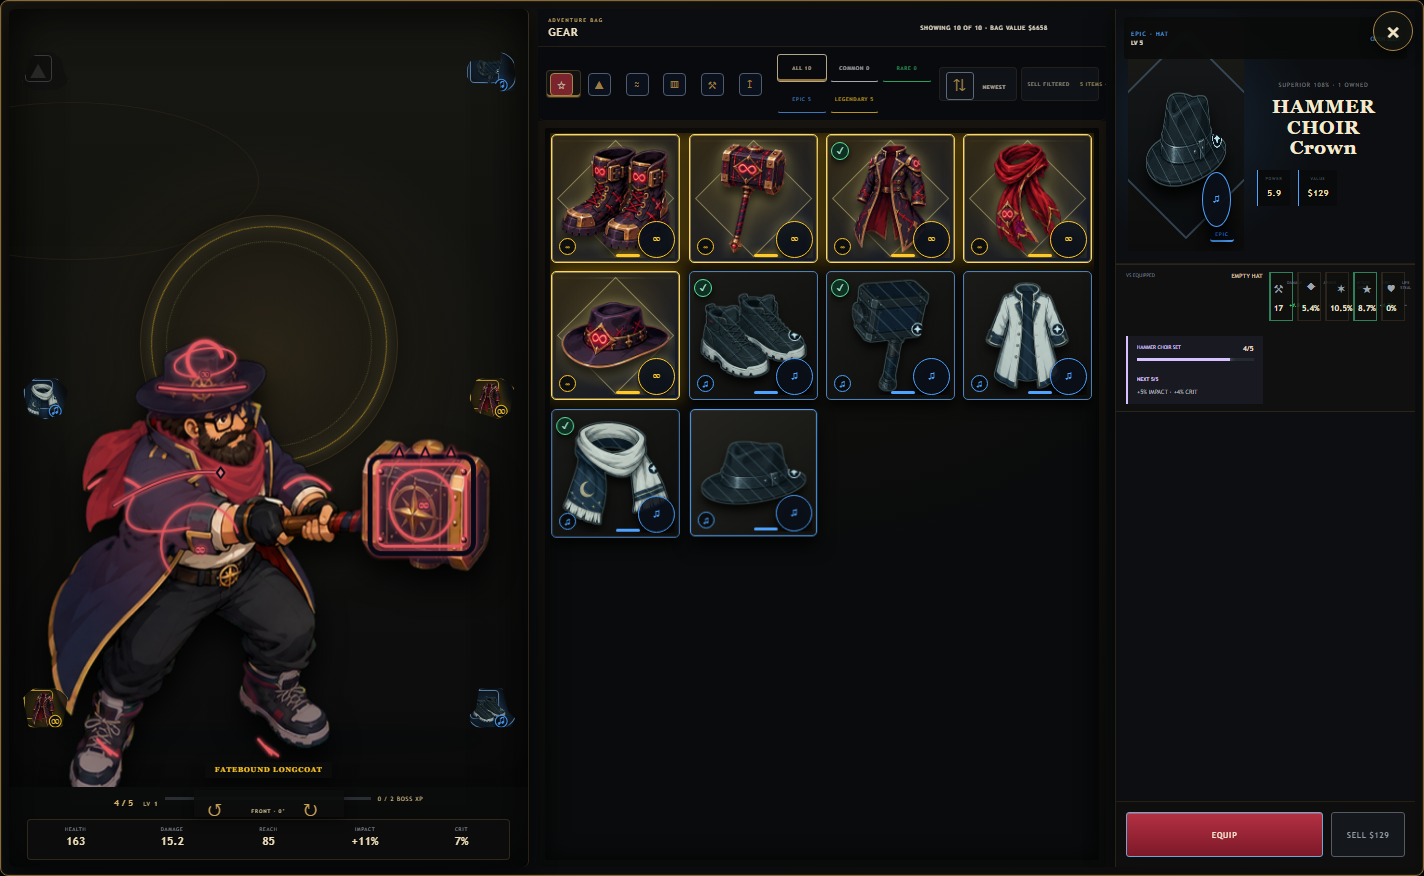
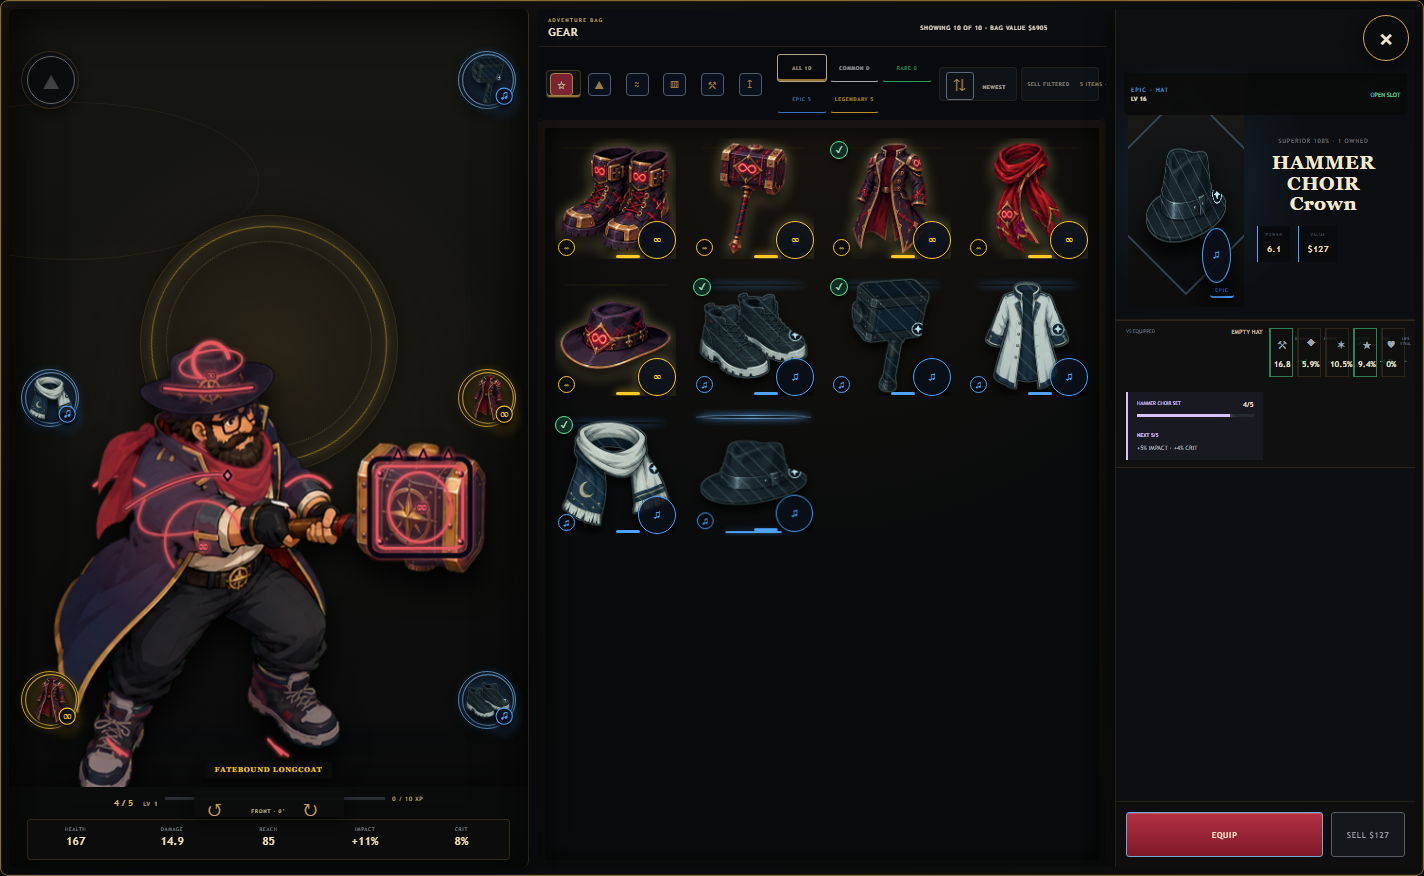
Refine frameless inventory presentation

diff --git a/style.css b/style.css
@@ -3271,3 +3271,150 @@ button:focus-visible{outline-color:#f4ead6}
     background-size:100% auto!important;
   }
 }
+
+/* v0.64 Frameless Armory: gear reads as part of the character, not boxed widgets. */
+#gearPanel>.panelClose{
+  top:14px;
+  right:14px;
+  width:46px;
+  height:46px;
+  min-height:46px;
+  padding:0;
+  border:1px solid #d6aa58;
+  border-radius:50%;
+  background:#090b0cd9;
+  box-shadow:0 6px 18px #0009;
+  color:#f4ead6;
+}
+#gearPanel>.panelClose:hover,
+#gearPanel>.panelClose:focus-visible{
+  background:#17130e;
+  border-color:#f0ca75;
+  box-shadow:0 7px 20px #000b;
+}
+@media(min-width:901px){
+  #gearPanel .unifiedGearBrowser>.gearDetail{padding-top:56px}
+}
+
+#gearPanel .equipmentOrbitSlots .gearLoadoutSlot,
+#gearPanel .equipmentOrbitSlots .gearLoadoutSlot.filled{
+  width:58px!important;
+  min-width:58px!important;
+  height:58px!important;
+  min-height:58px!important;
+  display:grid!important;
+  grid-template-columns:1fr!important;
+  grid-template-rows:1fr!important;
+  place-items:center;
+  padding:5px!important;
+  overflow:visible;
+  clip-path:none!important;
+  border:1px solid #d6aa5870;
+  border-radius:50%;
+  background:radial-gradient(circle,#12100bd1 0 54%,#070809c2 72%,transparent 74%);
+  box-shadow:none;
+  opacity:.94;
+}
+#gearPanel .equipmentOrbitSlots .gearLoadoutSlot.filled{
+  border-color:color-mix(in srgb,var(--gear-color) 72%,#d6aa58);
+  background:radial-gradient(circle,color-mix(in srgb,var(--gear-color) 10%,#11100d) 0 58%,#070809d9 70%,transparent 72%);
+}
+#gearPanel .equipmentOrbitSlots .gearLoadoutSlot>i{
+  width:48px!important;
+  height:48px!important;
+  margin:0!important;
+  border-radius:50%;
+  overflow:visible;
+}
+#gearPanel .equipmentOrbitSlots .gearLoadoutSlot>span{display:none!important}
+#gearPanel .equipmentOrbitSlots .gearLoadoutSlot .gearArt{
+  width:100%!important;
+  height:100%!important;
+  filter:drop-shadow(0 5px 4px #000d);
+}
+#gearPanel .equipmentOrbitSlots .gearLoadoutSlot.selected{
+  outline:2px solid #f3cf78;
+  outline-offset:3px;
+}
+#gearPanel .equipmentOrbitSlots .gearLoadoutSlot:hover,
+#gearPanel .equipmentOrbitSlots .gearLoadoutSlot:focus-visible{
+  transform:scale(1.045);
+  border-color:#f0ca75;
+  box-shadow:none!important;
+}
+
+#gearPanel .gearBagSlot,
+#gearPanel .gearBagSlot:not(.rarity4){
+  border:0!important;
+  border-radius:0!important;
+  background:transparent!important;
+  box-shadow:none!important;
+}
+#gearPanel .gearBagSlot:before,
+#gearPanel .gearBagSlot:not(.rarity4):before{
+  inset:10%!important;
+  border:0!important;
+  border-radius:50%!important;
+  background:radial-gradient(circle,color-mix(in srgb,var(--gear-color) 9%,transparent),transparent 67%)!important;
+  opacity:.75!important;
+}
+#gearPanel .gearBagSlot:hover,
+#gearPanel .gearBagSlot:focus-visible,
+#gearPanel .gearBagSlot.selected,
+#gearPanel .gearBagSlot:not(.rarity4):hover,
+#gearPanel .gearBagSlot:not(.rarity4):focus-visible,
+#gearPanel .gearBagSlot:not(.rarity4).selected{
+  border:0!important;
+  background:transparent!important;
+  box-shadow:none!important;
+}
+#gearPanel .gearBagSlot:hover:before,
+#gearPanel .gearBagSlot:focus-visible:before,
+#gearPanel .gearBagSlot.selected:before{
+  inset:5%!important;
+  border:1px solid color-mix(in srgb,var(--gear-color) 72%,#d6aa58)!important;
+  background:radial-gradient(circle,color-mix(in srgb,var(--gear-color) 16%,transparent),transparent 70%)!important;
+  opacity:1!important;
+}
+#gearPanel .gearBagSlot.selected:after{
+  content:"";
+  position:absolute;
+  z-index:3;
+  left:28%;
+  right:28%;
+  bottom:3px;
+  height:2px;
+  border-radius:2px;
+  background:var(--gear-color,#d6aa58);
+  box-shadow:0 0 7px color-mix(in srgb,var(--gear-color,#d6aa58) 55%,transparent);
+  pointer-events:none;
+}
+#gearPanel .gearBagSlot .gearBagArt:before{display:none!important}
+
+@media(max-width:900px){
+  #gearPanel>.panelClose{
+    top:max(10px,env(safe-area-inset-top));
+    right:max(10px,env(safe-area-inset-right));
+    width:44px;
+    height:44px;
+    min-height:44px;
+  }
+  #gearPanel .equipmentOrbitSlots .gearLoadoutSlot,
+  #gearPanel .equipmentOrbitSlots .gearLoadoutSlot.filled{
+    width:50px!important;
+    min-width:50px!important;
+    height:50px!important;
+    min-height:50px!important;
+    padding:4px!important;
+  }
+  #gearPanel .equipmentOrbitSlots .gearLoadoutSlot>i{
+    width:42px!important;
+    height:42px!important;
+  }
+  #gearPanel .equipmentOrbitSlots .gearLoadoutSlot[data-display-slot="hat"]{top:22px;left:10px}
+  #gearPanel .equipmentOrbitSlots .gearLoadoutSlot[data-display-slot="scarf"]{left:10px;top:48%}
+  #gearPanel .equipmentOrbitSlots .gearLoadoutSlot[data-display-slot="coat"]{left:10px;bottom:24px}
+  #gearPanel .equipmentOrbitSlots .gearLoadoutSlot[data-display-slot="hammer"]{right:10px;top:72px}
+  #gearPanel .equipmentOrbitSlots .gearLoadoutSlot[data-display-slot="gloves"]{right:10px;top:55%}
+  #gearPanel .equipmentOrbitSlots .gearLoadoutSlot[data-display-slot="boots"]{right:10px;bottom:24px}
+}

diff --git a/tests/browser/inventory-frameless.spec.js b/tests/browser/inventory-frameless.spec.js
@@ -1,0 +1,71 @@
+const {test,expect,devices}=require('@playwright/test');
+
+async function openLavaArmory(page){
+  await page.addInitScript(()=>localStorage.clear());
+  await page.goto('/?playwright');
+  await expect.poll(()=>page.evaluate(()=>Boolean(window.__riskTest))).toBe(true);
+  await page.evaluate(()=>window.__riskTest.previewGearSet('lavaSet'));
+  await expect(page.locator('#gearOverlay')).toHaveClass(/show/);
+  await expect(page.locator('#gearCharacterStage')).toHaveAttribute('data-inventory-backdrop','lavaSet');
+  await page.waitForTimeout(250);
+}
+
+async function presentationState(page){
+  return page.evaluate(()=>{
+    const rect=element=>{
+      const box=element.getBoundingClientRect();
+      return {left:box.left,top:box.top,right:box.right,bottom:box.bottom,width:box.width,height:box.height};
+    };
+    const overlaps=(a,b)=>a.left<b.right&&a.right>b.left&&a.top<b.bottom&&a.bottom>b.top;
+    const close=rect(document.querySelector('#closeGear'));
+    const detailCard=document.querySelector('#gearDetail .gearDetailCard');
+    const detail=detailCard&&getComputedStyle(detailCard).display!=='none'?rect(detailCard):null;
+    const slots=[...document.querySelectorAll('#gearLoadoutSlots .gearLoadoutSlot')].map(element=>{
+      const style=getComputedStyle(element);
+      return {box:rect(element),radius:style.borderRadius,clip:style.clipPath,background:style.backgroundImage};
+    });
+    const cards=[...document.querySelectorAll('#gearGrid .gearBagSlot')].map(element=>{
+      const style=getComputedStyle(element);
+      return {border:style.borderTopWidth,background:style.backgroundImage,color:style.backgroundColor};
+    });
+    return {
+      close,
+      slots,
+      cards,
+      closeOverlapsSlot:slots.some(slot=>overlaps(close,slot.box)),
+      closeOverlapsDetail:detail?overlaps(close,detail):false,
+      overflow:document.documentElement.scrollWidth-document.documentElement.clientWidth
+    };
+  });
+}
+
+for(const setup of [
+  {name:'desktop',context:{viewport:{width:1366,height:768}}},
+  {name:'iphone',context:{...devices['iPhone 13']}}
+]){
+  test(`${setup.name} Armory uses frameless gear and an isolated close control`,async({browser},testInfo)=>{
+    const context=await browser.newContext(setup.context);
+    const page=await context.newPage();
+    await openLavaArmory(page);
+    const state=await presentationState(page);
+    expect(state.slots).toHaveLength(6);
+    expect(state.cards.length).toBeGreaterThan(0);
+    expect(state.closeOverlapsSlot).toBe(false);
+    expect(state.closeOverlapsDetail).toBe(false);
+    expect(state.overflow).toBeLessThanOrEqual(1);
+    for(const slot of state.slots){
+      expect(slot.radius).toBe('50%');
+      expect(['none','']).toContain(slot.clip);
+      expect(Math.abs(slot.box.width-slot.box.height)).toBeLessThanOrEqual(1);
+    }
+    for(const card of state.cards){
+      expect(card.border).toBe('0px');
+      expect(card.background).toBe('none');
+      expect(card.color).toBe('rgba(0, 0, 0, 0)');
+    }
+    await page.screenshot({path:testInfo.outputPath(`frameless-${setup.name}.png`),animations:'disabled'});
+    setup.name==='iphone'?await page.locator('#closeGear').tap():await page.locator('#closeGear').click();
+    await expect(page.locator('#gearOverlay')).not.toHaveClass(/show/);
+    await context.close();
+  });
+}

diff --git a/index.html b/index.html
@@ -8,7 +8,7 @@
   <meta name="apple-mobile-web-app-status-bar-style" content="black-translucent">
   <meta name="description" content="Risk everything, recover equippable gear and build Pappa Hammer in this compact extraction roguelite.">
   <title>RISK THE LOOT!</title>
-  <link rel="stylesheet" href="style.css?v=0.63.0">
+  <link rel="stylesheet" href="style.css?v=0.64.0">
   <link rel="stylesheet" href="inventory-v2.css?v=0.3.0">
 </head>
 <body>
@@ -16,7 +16,7 @@
     <header class="topbar">
       <div class="brand" tabindex="0" data-help-title="Risk the Loot" data-help="Enter the tower, defeat champions and decide when the gear you carry is valuable enough to extract.">
         <span class="brandMark">R</span>
-        <div><strong>RISK THE LOOT!</strong><small>INFINITE WORLD v0.63.0</small></div>
+        <div><strong>RISK THE LOOT!</strong><small>INFINITE WORLD v0.64.0</small></div>
       </div>
       <div class="resources">
         <div class="resource level" data-help-title="Pappa Level" data-help="Boss victories grant XP. Higher levels unlock stronger gear and tougher champions."><i>LV</i><div><b id="pappaLevel">1</b><span>PAPPA</span></div></div>
@@ -383,15 +383,15 @@
         </div>
         <button id="resumeButton" class="primaryButton settingsResume"><span>RESUME</span><i>&#8250;</i></button>
         <button id="abandonButton" class="dangerButton">ABANDON EXPEDITION</button>
-        <p class="buildStamp">v0.63.0 SET STAGES</p>
+        <p class="buildStamp">v0.64.0 FRAMELESS ARMORY</p>
       </div>
     </div>
     <aside id="helpTooltip" class="helpTooltip" role="tooltip" aria-hidden="true"><strong id="helpTooltipTitle"></strong><span id="helpTooltipText"></span></aside>
   </main>
-  <script src="guild-terrain.js?v=0.63.0"></script>
-  <script src="infinite-world.js?v=0.63.0"></script>
-  <script src="progression.js?v=0.63.0"></script>
-  <script src="script.js?v=0.63.0"></script>
+  <script src="guild-terrain.js?v=0.64.0"></script>
+  <script src="infinite-world.js?v=0.64.0"></script>
+  <script src="progression.js?v=0.64.0"></script>
+  <script src="script.js?v=0.64.0"></script>
   <script src="inventory-v2.js?v=0.3.0"></script>
 </body>
 </html>
